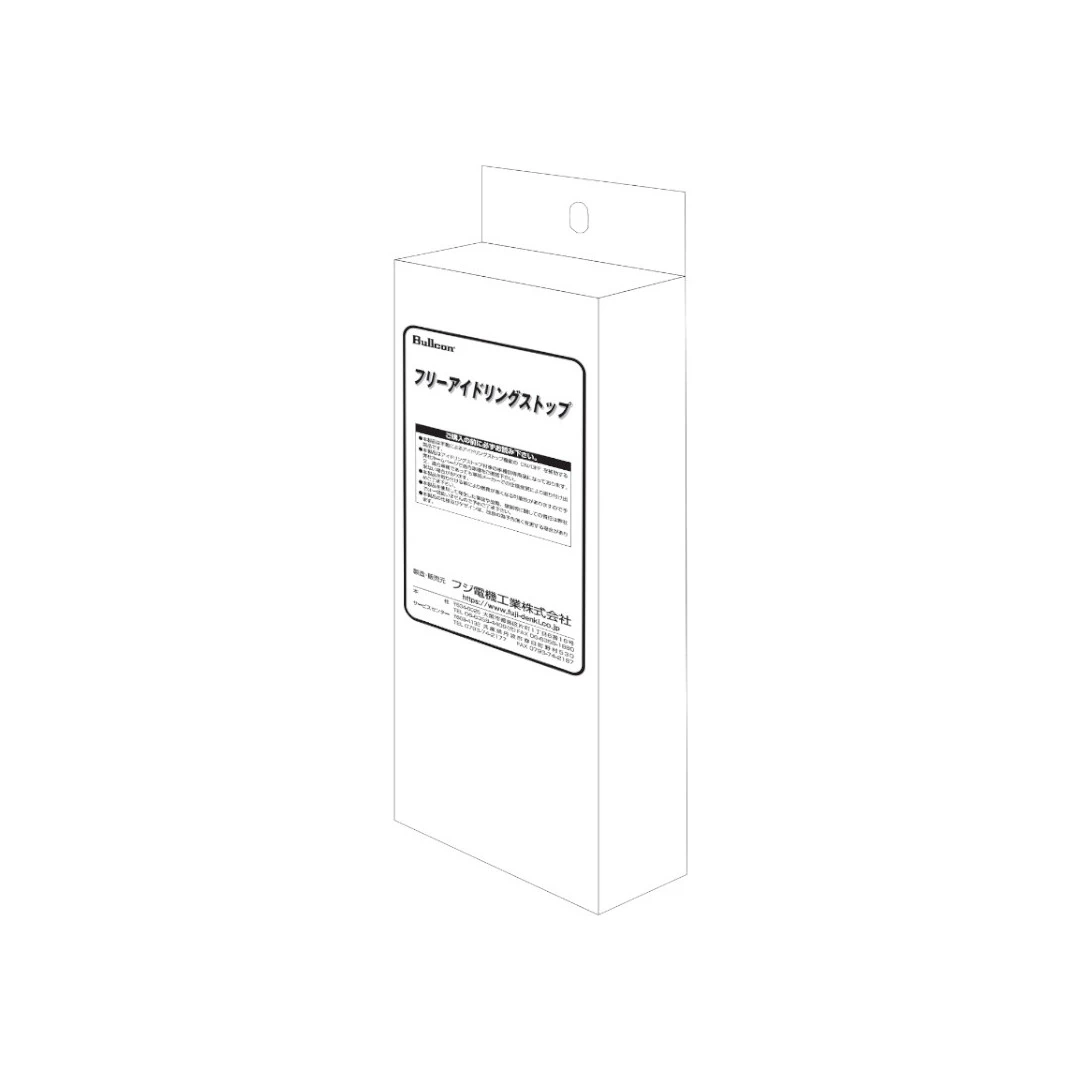
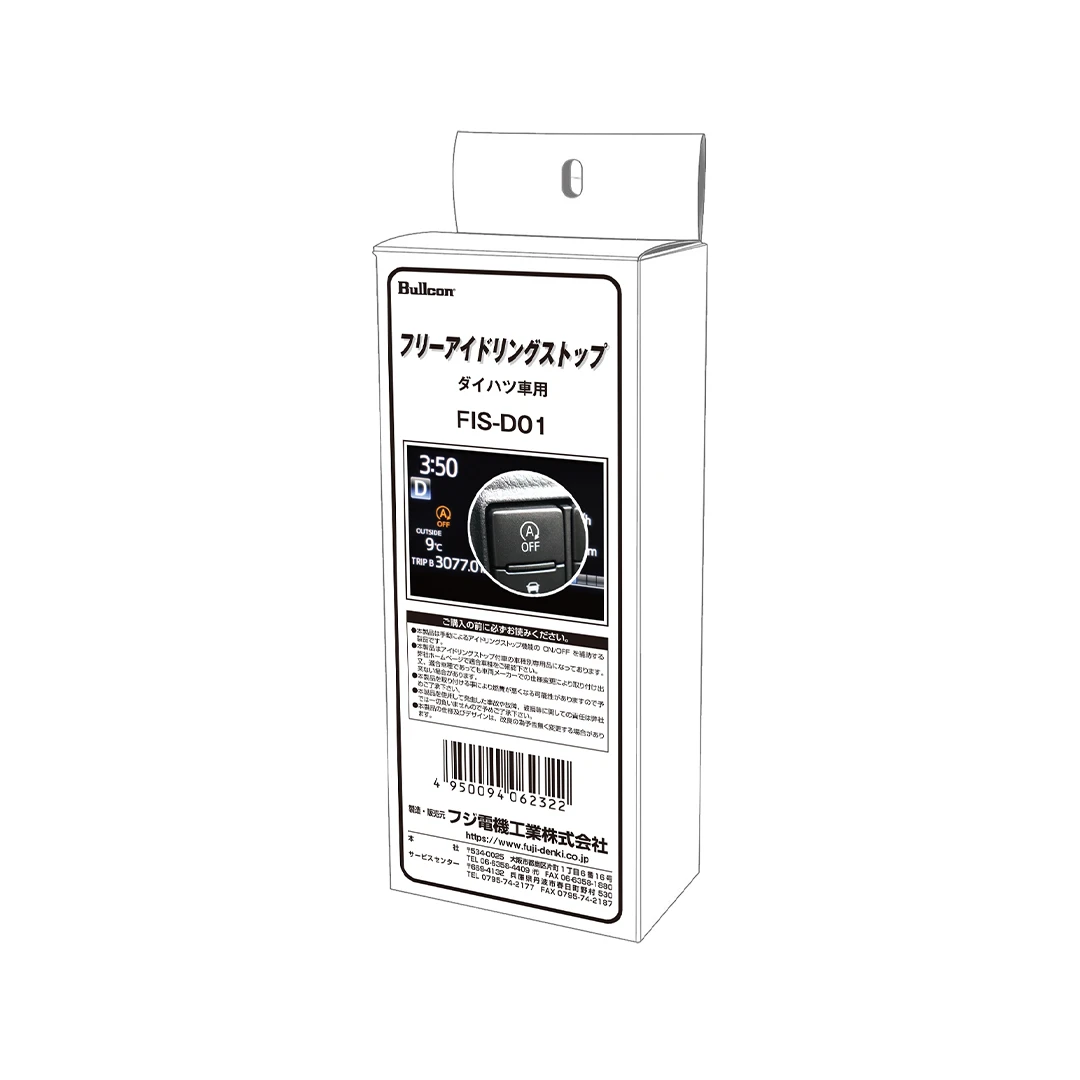
FIS-TOP用ｻﾑﾈｲﾙ画像変更

Changed region(s): [[0.3361, 0.1222, 0.6722, 0.8861], [0.5194, 0.1222, 0.55, 0.1833]]

diff --git a/README.md b/README.md
@@ -19,3 +19,5 @@ WebP化、ファイル整理、データ共有の練習。
 - 2026年4月24日am1030 : ホンダTV-MOP更新
 - 2026年4月24日am1100 : 拓修正(webp_fix)をmainにマージ（取込み合成）
 - 2026年4月27日pm1300 : ホンダTV-DOP更新
+- 2026年4月30日am0900 : news（デリカD5）修正
+- 2026年4月30日am0930 : FISﾊﾟｯｹｰｼﾞ写真（TOPｻﾑﾈｲﾙ）カラー変更
